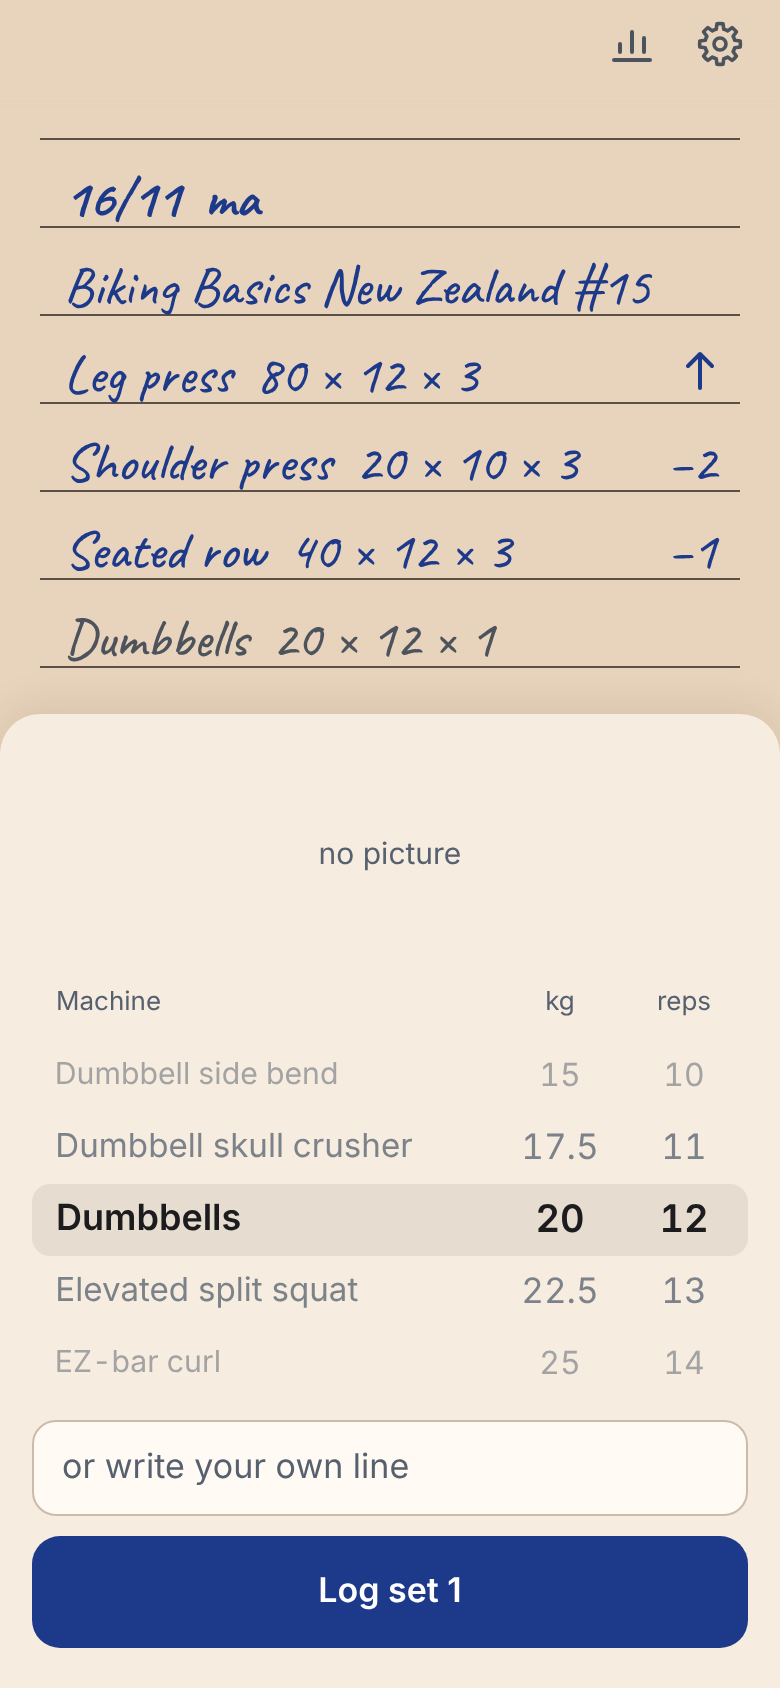
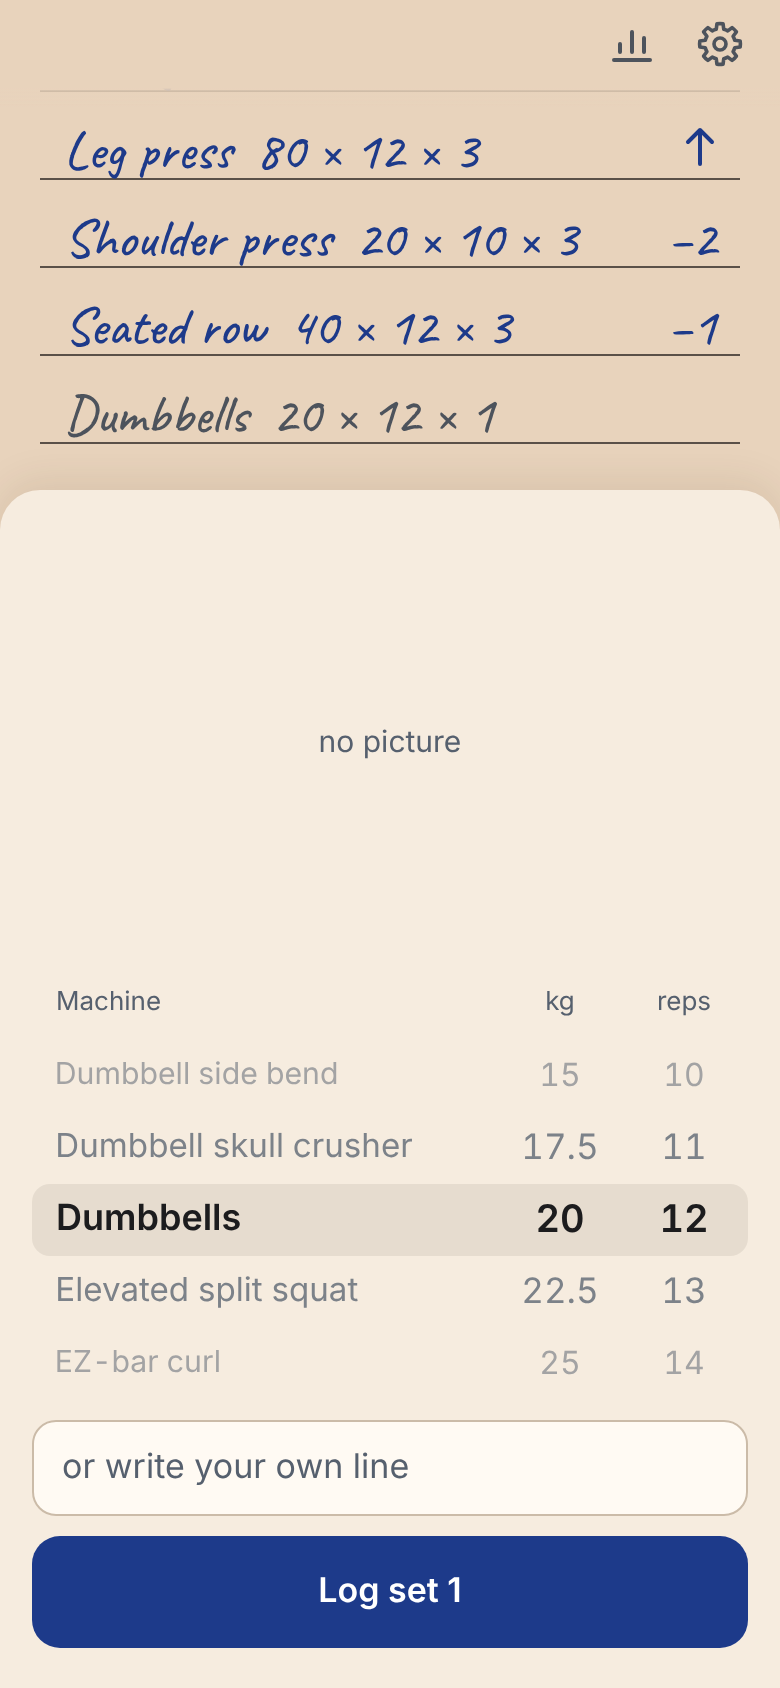
Plans move by holding a machine; the panel's drawing is twice as big
- A machine in a plan has no drag handle any more: hold it, then drag
  it, like a plan in settings and a line in the notebook. The drag
  icon shows only while it is held. Alt with arrow up or down still
  moves a focused one. The handle-drag code is gone.
- The drawing above the wheels is twice as big (224 px) where the
  screen has room for it, and shrinks on a short screen, down to 72 px.
  The paper above the panel keeps the line being written in view.

diff --git a/index.html b/index.html
@@ -388,13 +388,13 @@ button {
   align-items: center;
   justify-content: center;
   height: 112px;
+  height: clamp(72px, calc(100svh - 600px), 224px); /* twice that where it fits, smaller on a short screen */
   margin-top: -4px;
   color: var(--muted);
   font-size: 15px;
 }
 
 .sheet-picture img { display: block; width: 100%; height: 100%; object-fit: contain; }
-@media (max-height: 700px) { .sheet-picture { height: 72px; } } /* a small phone keeps room for the paper above the panel */
 @media (max-height: 540px) { .sheet-picture { display: none; } } /* a phone on its side has no room for it */
 .sheet-labels .is-left { padding-left: 4px; text-align: left; }
 .wheels { position: relative; }
@@ -477,25 +477,11 @@ button {
 #planTitle { flex: 1 1 auto; min-width: 0; }
 .title-btn { display: block; width: 100%; height: var(--line); overflow: hidden; text-align: left; text-overflow: ellipsis; white-space: nowrap; }
 
-.row-handle { /* drag it to move a machine up or down in a plan */
-  flex: none;
-  align-self: center;
-  display: grid;
-  place-items: center;
-  width: 44px;
-  height: 44px;
-  margin: 0 -12px 0 auto;
-  border-radius: 12px;
-  color: var(--pencil);
-  cursor: grab;
-  touch-action: none;
-}
-
 .row.is-moving { z-index: 2; clip-path: none; }
 .row.is-moving > .row-content { background: var(--paper); box-shadow: 0 4px 12px rgba(70, 45, 20, .18); }
 .row.is-shifting { transition: transform .15s var(--ease); }
 
-/* A row picked up by holding it (a notebook line, a plan in settings) shows the drag icon in its left margin. */
+/* A row picked up by holding it (a notebook line, a plan, a machine in a plan) shows the drag icon in its left margin. */
 .hold-sort .row.is-moving > .row-content { position: relative; }
 .hold-sort .row.is-moving > .row-content::before {
   content: '';
@@ -529,8 +515,7 @@ body.is-dragging, body.is-dragging * { cursor: grabbing !important; }
 
 #planMachines .row-content { flex-wrap: nowrap; align-items: flex-start; }
 #planMachines .name { flex: 1 1 auto; line-height: var(--line); }
-#planMachines .thumb { margin-right: 4px; }
-#planMachines .row-handle { margin-left: 0; }
+#planMachines .thumb { margin-right: -6px; }
 
 a.stat-link { text-decoration: none; } /* a credit that opens its source */
 .stat-link .out { flex: none; }
@@ -883,7 +868,6 @@ a.stat-link { text-decoration: none; } /* a credit that opens its source */
     up: svg(16, 22, 2, '<path d="M8 20V3M2 9l6-6 6 6"/>'),
     down: svg(16, 22, 2, '<path d="M8 2v17M2 13l6 6 6-6"/>'),
     chevron: svg(12, 22, 2.5, '<path d="M2 3l8 8-8 8"/>'),
-    handle: svg(22, 14, 2.2, '<path d="M2 3h18M2 11h18"/>'),
   };
 
   FN.config = { STORAGE_KEY, PREFS_KEY, TIMER_KEY, DAY_NAMES, MONTH_NAMES, MONTH_SHORT, KG_STEP, KG_STEPS, KG_MAX, SETS, REPS, FIRST_TIME_VALUES, YEARS_BACK, REST_TIMES_S, DEFAULT_PREFS, WHEEL_ITEM_PX, DELETE_WIDTH_PX, RULE_INSET_PX, OPEN_OFFSET_PX, FULL_SWIPE, UNDO_MS, HOLD_MS, PREVIEW_ID, BLANK_ROW, svg, Icons };
@@ -3411,7 +3395,7 @@ a.stat-link { text-decoration: none; } /* a credit that opens its source */
     /** The row a press starts a swipe on, or null: not on a row being removed, a field, Delete or a handle. */
     swipeableRow(e) {
       const row = e.target.closest('.row');
-      if (!row || row.classList.contains('is-removing') || e.target.closest('input, .row-delete, .row-handle')) return null;
+      if (!row || row.classList.contains('is-removing') || e.target.closest('input, .row-delete')) return null;
       return row;
     }
 
@@ -3488,7 +3472,7 @@ a.stat-link { text-decoration: none; } /* a credit that opens its source */
 
     /** The row a tap is for, or null: not a tap in a field or on a handle, nor on a row that is going away. */
     tappableRow(target) {
-      if (target.closest('input, .row-handle')) return null;
+      if (target.closest('input')) return null;
       const row = target.closest('.row');
       return row && !row.classList.contains('is-removing') ? row : null;
     }
@@ -3508,84 +3492,6 @@ a.stat-link { text-decoration: none; } /* a credit that opens its source */
 </script>
 
 <!-- ==== 3. Panels: adding and changing lines ================================================== -->
-
-<script data-module="handleSort">
-/**
- * A list you put in your own order with the handle of each row:
- *   <div class="row" data-key="…"><div class="row-content">… <button class="row-handle">…</button></div>…</div>
- * Drag a handle up or down; the rows in between step aside. Arrow up and down on a focused handle
- * move its row one place. onMove(key, to) stores the new place (0 is the top); render() draws the list again.
- */
-(function (FN) {
-  'use strict';
-  const { clamp } = FN.util;
-  const { isOtherButton, capturePointer } = FN.dom;
-  const { Decide } = FN.decide;
-
-  class HandleSort {
-    constructor(container, { onMove, render }) {
-      this.container = container;
-      this.onMove = onMove;
-      this.render = render;
-      this.drag = null;
-      container.addEventListener('pointerdown', (e) => this.startDrag(e));
-      container.addEventListener('pointermove', (e) => this.moveDrag(e));
-      container.addEventListener('pointerup', (e) => this.endDrag(e));
-      container.addEventListener('pointercancel', (e) => this.endDrag(e));
-      container.addEventListener('keydown', (e) => this.moveWithKey(e));
-    }
-
-    startDrag(e) {
-      const handle = e.target.closest('.row-handle');
-      if (!handle || this.drag || isOtherButton(e)) return;
-      const row = handle.closest('.row');
-      const rows = Array.from(this.container.children);
-      const from = rows.indexOf(row);
-      this.drag = { row, rows, from, to: from, startY: e.clientY, pointerId: e.pointerId, step: row.offsetHeight };
-      capturePointer(handle, e.pointerId);
-      row.classList.add('is-moving');
-    }
-
-    moveDrag(e) {
-      const d = this.drag;
-      if (!d || e.pointerId !== d.pointerId) return;
-      const dy = clamp(e.clientY - d.startY, -d.from * d.step, (d.rows.length - 1 - d.from) * d.step);
-      d.to = d.from + Math.round(dy / d.step);
-      d.row.style.transform = `translateY(${dy}px)`;
-      d.rows.forEach((other, i) => { // the rows in between step aside
-        if (other === d.row) return;
-        const shift = Decide.shiftFor(i, d.from, d.to, d.step);
-        other.classList.add('is-shifting');
-        other.style.transform = shift ? `translateY(${shift}px)` : '';
-      });
-    }
-
-    endDrag(e) {
-      const d = this.drag;
-      if (!d || e.pointerId !== d.pointerId) return;
-      this.drag = null;
-      if (e.type === 'pointerup' && d.to !== d.from) this.onMove(d.row.dataset.key, d.to);
-      this.render();
-    }
-
-    /** Arrow up and down on a handle move its row one place, and the focus stays on that handle. */
-    moveWithKey(e) {
-      const handle = e.target.closest('.row-handle');
-      const step = Decide.arrowStep(e.key);
-      if (!handle || !step) return;
-      e.preventDefault();
-      const key = handle.closest('.row').dataset.key;
-      const from = Array.from(this.container.children).findIndex((row) => row.dataset.key === key);
-      this.onMove(key, from + step);
-      this.render();
-      const moved = this.container.querySelector(`.row[data-key="${CSS.escape(key)}"] .row-handle`);
-      if (moved) moved.focus();
-    }
-  }
-
-  FN.handleSort = { HandleSort };
-})(globalThis.FN = globalThis.FN || {});
-</script>
 
 <script data-module="holdSort">
 /**
@@ -4777,18 +4683,17 @@ a.stat-link { text-decoration: none; } /* a credit that opens its source */
 <script data-module="planScreen">
 /**
  * One plan: its machines in the order you do them, with their drawings. Names only, no kg or reps.
- * Tap a machine to open its page, drag its handle to move it, drag the row left to take it out.
+ * Tap a machine to open its page; hold it, then drag it, to move it; drag it left to take it out.
  * Tap the name at the top to change it. A plan is removed in settings: drag it left.
  */
 (function (FN) {
   'use strict';
-  const { Icons } = FN.config;
   const { escapeHtml, clamp } = FN.util;
   const { byId, shake, thumbHtml } = FN.dom;
   const { Decide } = FN.decide;
   const { LineInput } = FN.lineInput;
   const { SwipeRows } = FN.swipeRows;
-  const { HandleSort } = FN.handleSort;
+  const { HoldSort } = FN.holdSort;
 
   class PlanScreen {
     /** app: to draw the screen again after an undo. */
@@ -4912,14 +4817,16 @@ a.stat-link { text-decoration: none; } /* a credit that opens its source */
         if (e.target.closest('.title-btn')) this.rename();
       });
 
-      new SwipeRows(this.list, {
+      const machineRows = new SwipeRows(this.list, {
         onTap: (row) => this.app.open({ view: 'machineStats', machineId: row.dataset.key }),
         onDelete: (row) => this.removeMachine(row.dataset.key),
       });
-
-      new HandleSort(this.list, {
+      new HoldSort(this.list, {
+        swipeRows: machineRows,
+        group: () => Array.from(this.list.children),
         onMove: (machineId, to) => this.notebook.movePlanMachine(this.planId, machineId, to),
         render: () => this.renderList(),
+        isBusy: () => this.sheet.isOpen(),
       });
     }
   }
@@ -4928,8 +4835,7 @@ a.stat-link { text-decoration: none; } /* a credit that opens its source */
     const name = escapeHtml(machine.name);
     return (
       `<div class="row row--machine" role="listitem" tabindex="0" data-key="${escapeHtml(machine.id)}">` +
-      `<div class="row-content"><span class="name">${name}</span>${thumbHtml(machine.picture)}` +
-      `<button class="row-handle" type="button" aria-label="Move ${name}: drag, or use arrow up and down">${Icons.handle}</button></div>` +
+      `<div class="row-content"><span class="name">${name}</span>${thumbHtml(machine.picture)}</div>` +
       `<button class="row-delete" type="button" tabindex="-1" aria-label="Take ${name} out of the plan"><span>Delete</span></button>` +
       '</div>'
     );

diff --git a/tests/e2e/plans.spec.js b/tests/e2e/plans.spec.js
@@ -1,6 +1,6 @@
 /** Making a plan in settings, then a day from it: the machines in pencil, logged one after the other. */
 import { test, expect } from './fixtures.js';
-import { actionButton, addLine, backTo, finger, holdAndDrag, lastDay, numbers, openApp, openSettings, otherButton, pick, row, sheet, startDate } from './app.js';
+import { actionButton, addLine, backTo, holdAndDrag, lastDay, numbers, openApp, openSettings, otherButton, pick, row, sheet, startDate } from './app.js';
 
 /** Makes "Leg day" with Leg press and Leg curl, and goes back to the notebook. */
 async function makeLegDay(page) {
@@ -29,33 +29,24 @@ test.beforeEach(async ({ page }) => {
   await makeLegDay(page);
 });
 
-test('a plan keeps its machines in the order you put them; the handle moves one', async ({ page }) => {
+const planMachine = (page, name) => page.locator('#planMachines .row').filter({ hasText: name });
+
+test('a plan keeps its machines in the order you put them; Alt with arrow up moves the focused one', async ({ page }) => {
   await openSettings(page);
   await page.locator('#planList .row').filter({ hasText: 'Leg day' }).click();
-  await page.getByRole('button', { name: /Move Leg curl/ }).focus();
-  await page.keyboard.press('ArrowUp');
+  await planMachine(page, 'Leg curl').focus();
+  await page.keyboard.press('Alt+ArrowUp');
   await expect(page.locator('#planMachines .name')).toHaveText(['Leg curl', 'Leg press']);
+  await expect(planMachine(page, 'Leg curl')).toBeFocused();
 });
 
-test('drag a machine in a plan by its handle', async ({ page, isMobile }) => {
+test('hold a machine in a plan, then drag it to another place; there is no handle to drag', async ({ page, isMobile }) => {
   await openSettings(page);
   await page.locator('#planList .row').filter({ hasText: 'Leg day' }).click();
-  const handle = (name) => page.getByRole('button', { name: `Move ${name}: drag, or use arrow up and down` });
-  const from = await handle('Leg curl').boundingBox();
-  const to = await handle('Leg press').boundingBox();
-  const x = from.x + from.width / 2;
-  if (isMobile) {
-    const touch = await finger(page);
-    await touch.down(x, from.y + from.height / 2);
-    for (let i = 1; i <= 8; i++) await touch.move(x, from.y + from.height / 2 + ((to.y - from.y) * i) / 8);
-    await touch.up();
-  } else {
-    await page.mouse.move(x, from.y + from.height / 2);
-    await page.mouse.down();
-    await page.mouse.move(x, to.y + to.height / 2, { steps: 8 });
-    await page.mouse.up();
-  }
+  await expect(page.locator('#planMachines button')).toHaveCount(2); // only each row's Delete, out of sight
+  await holdAndDrag(page, planMachine(page, 'Leg curl'), planMachine(page, 'Leg press'), { touch: isMobile });
   await expect(page.locator('#planMachines .name')).toHaveText(['Leg curl', 'Leg press']);
+  await expect(page.locator('#machineStats')).toBeHidden(); // a drag is not a tap: the machine's page did not open
 });
 
 test('a day from a plan: log each machine in turn, the pencil lines turn into pen', async ({ page }) => {

diff --git a/tests/unit/config.test.js b/tests/unit/config.test.js
@@ -82,7 +82,7 @@ test('svg: an icon of the given size that takes the text colour and is hidden fr
 });
 
 test('Icons: each one is a drawn, decorative svg whose viewBox matches its size', () => {
-  assert.deepEqual(Object.keys(config.Icons).sort(), ['chevron', 'down', 'handle', 'up']);
+  assert.deepEqual(Object.keys(config.Icons).sort(), ['chevron', 'down', 'up']);
   const drawings = new Set();
   for (const [name, markup] of Object.entries(config.Icons)) {
     const { attrs, body } = svgAttributes(markup);
@@ -93,5 +93,5 @@ test('Icons: each one is a drawn, decorative svg whose viewBox matches its size'
     assert.match(body, /^<path d="M[^"]+"\/>$/, name);
     drawings.add(body);
   }
-  assert.equal(drawings.size, 4); // no two icons look the same
+  assert.equal(drawings.size, 3); // no two icons look the same
 });

diff --git a/design/README.md b/design/README.md
@@ -37,13 +37,13 @@ They are pictures of the real `index.html`, so they show what is built. Screens 
 | Settings | [29-settings-import-text-wrong.png](29-settings-import-text-wrong.png) | Text that is not a backup: the panel says so and keeps the text |
 | Kg wheel | [30-settings-kg-step.png](30-settings-kg-step.png) | Settings, "steps of": the kg wheel goes by 2.5 kg, or by 0.5 kg for small dumbbells. One setting for every machine |
 | Kg wheel | [31-add-line-half-kg.png](31-add-line-half-kg.png) | With steps of 0.5 kg: 12, 12.5, 13 on the kg wheel |
-| Drawings | [32-add-line-picture.png](32-add-line-picture.png) | Above the wheels, the drawing of the machine on the wheel. Turn the wheel and it changes with it |
+| Drawings | [32-add-line-picture.png](32-add-line-picture.png) | Above the wheels, the drawing of the machine on the wheel, big where the screen has room. Turn the wheel and it changes with it |
 | Drawings | [33-add-line-no-picture.png](33-add-line-no-picture.png) | A machine without a drawing, such as Dumbbells: "no picture". The panel keeps its height |
 | Machines | [34-settings-machines.png](34-settings-machines.png) | Settings: one line says how many machines there are; tap it to see them. Machines are not added, renamed or removed |
 | Machines | [35-machines.png](35-machines.png) | Every machine A to Z, each with a small drawing in pencil. Tap one to open its page |
 | Machines | [36-machine-page.png](36-machine-page.png) | One machine: its drawing, big, and the steps of the move under it (tap the drawing, or a number); then what it works |
 | Machines | [37-machine-page-step-2.png](37-machine-page-step-2.png) | Further down: what it works, and with what; then your weights on it (also the page statistics opens) |
-| Plans | [38-plan-drawings.png](38-plan-drawings.png) | A plan: each machine with its drawing. Tap one to open its page |
+| Plans | [38-plan-drawings.png](38-plan-drawings.png) | A plan: each machine with its drawing. Tap one to open its page; hold one, then drag it, to move it |
 | Drawings | [39-settings-drawings-credits.png](39-settings-drawings-credits.png) | Settings, at the bottom: who made the drawings, what they are based on, their license, and what was changed |
 
 ## Look
